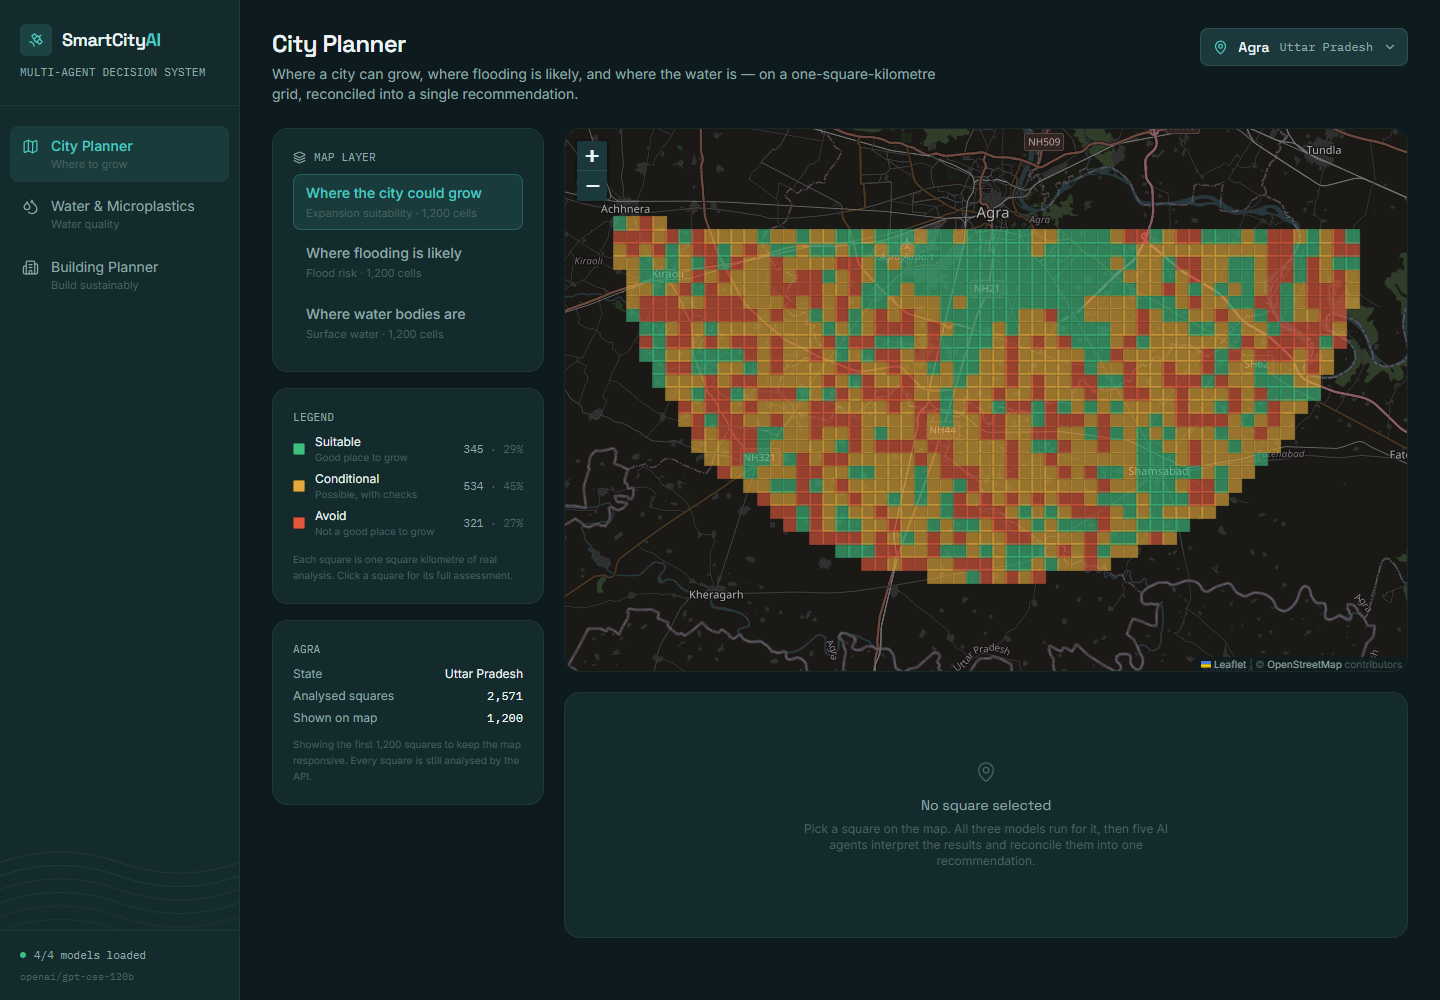
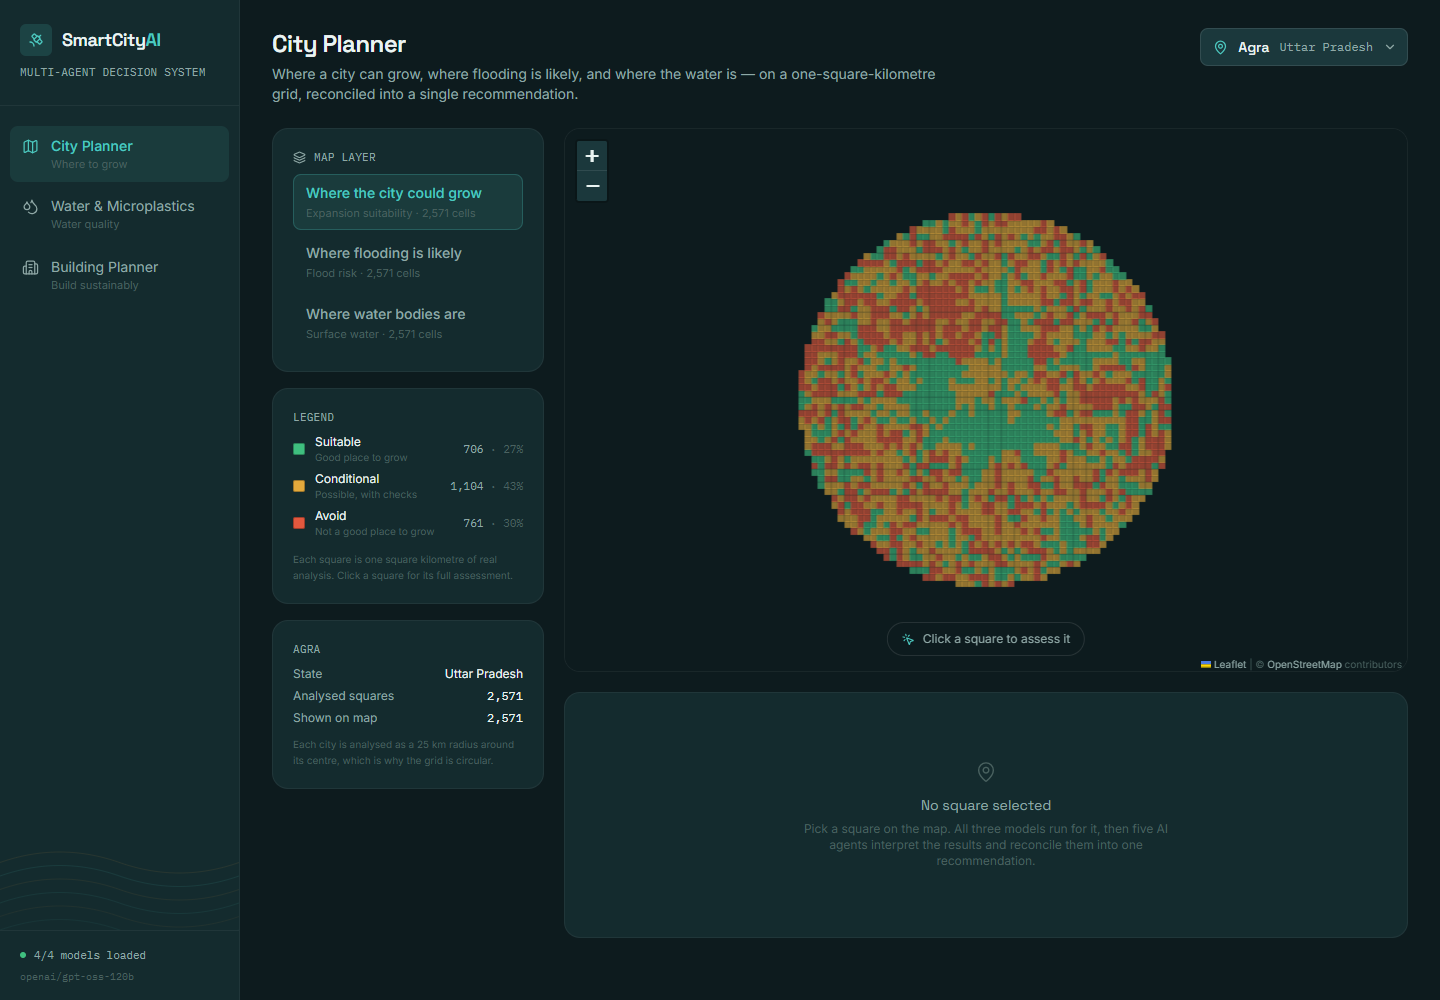
Draw the whole city grid instead of a truncated half
The map capped rendering at 1,200 cells per city. The grid file is ordered south
to north, so taking the first N rows cut the grid along a latitude line: what
rendered was the southern half of each city's analysis area, a half-disc sitting
below the city centre with a flat northern edge. Every one of the 45 cities was
affected, since all have more than 1,200 cells.

The circular outline itself is correct and comes from the project's own data:
each city is analysed as a 25 km radius disc around its centre, sampled on the
1 km grid, giving 2,089 to 2,956 cells per city. Only the truncation was wrong.

The cap is removed rather than made even-sampling, because at ~2,400 cells there
is no need for one: a full city now renders in under 7 seconds including the
three layer fetches, and a layer switch takes under 2.

Adds a browser check that the rendered cell count equals the city's analysed
total and that the disc is vertically symmetric, so a reintroduced cap fails
loudly instead of quietly hiding half a city. README screenshots refreshed, and
the grid's 25 km radius design is now documented.

diff --git a/frontend/src/pages/CityPlanner.jsx b/frontend/src/pages/CityPlanner.jsx
@@ -19,9 +19,12 @@ import CitySelector from '../components/city/CitySelector';
 import { getCities, getCityLayer, getMetrics, runCoordinator } from '../api/client';
 import { useAction, useAsync } from '../hooks/useAsync';
 
-// Cells rendered per city. The full grid is ~2,500 cells per city; capping keeps
-// the SVG layer responsive on a laptop while still covering the whole urban area.
-const CELL_LIMIT = 1200;
+// The whole city grid is rendered. An earlier version capped this at 1,200 cells,
+// which silently showed only PART OF EACH CITY: the source file is ordered
+// south to north, so taking the first N rows cut the grid along a latitude line
+// and left a half-disc sitting below the city centre. Every one of the 45 cities
+// was affected. A cap is only safe if it samples evenly, and at ~2,400 cells per
+// city (2,956 at most) there is no need for one.
 
 export default function CityPlanner() {
   const [city, setCity] = useState(null);
@@ -41,9 +44,9 @@ export default function CityPlanner() {
     useCallback(
       async (signal) => {
         const [urban, flood, water] = await Promise.all([
-          getCityLayer('urban', cityName, { limit: CELL_LIMIT, signal }),
-          getCityLayer('flood', cityName, { limit: CELL_LIMIT, signal }),
-          getCityLayer('water', cityName, { limit: CELL_LIMIT, signal }),
+          getCityLayer('urban', cityName, { signal }),
+          getCityLayer('flood', cityName, { signal }),
+          getCityLayer('water', cityName, { signal }),
         ]);
         return { urban, flood, water };
       },
@@ -142,12 +145,10 @@ export default function CityPlanner() {
                   </dd>
                 </div>
               </dl>
-              {city.grid_cells > CELL_LIMIT && (
-                <p className="text-[10px] text-mist-faint mt-2.5 leading-relaxed">
-                  Showing the first {CELL_LIMIT.toLocaleString()} squares to keep the map
-                  responsive. Every square is still analysed by the API.
-                </p>
-              )}
+              <p className="text-[10px] text-mist-faint mt-2.5 leading-relaxed">
+                Each city is analysed as a 25 km radius around its centre, which is why
+                the grid is circular.
+              </p>
             </Card>
           </aside>
 

diff --git a/README.md b/README.md
@@ -202,10 +202,10 @@ wall time against 14.18 s of summed agent work, across three threads.
 | **Sustainable Building Planner** | deterministic rules + NASA POWER | unit-tested arithmetic, cited guidelines |
 | **Agent layer** | LangGraph, 5 agents, Groq | 32 tests incl. concurrency and safety-guard proofs |
 | **FastAPI backend** | 33 endpoints | 66 API tests |
-| **React frontend** | 3 sections, interactive map | 65 unit tests + 23 browser checks |
+| **React frontend** | 3 sections, interactive map | 79 unit tests + 25 browser checks |
 
-**Tests: 207 backend + 65 frontend passing** offline, plus 8 live backend integration
-tests against real Groq and NASA POWER, and 23 browser checks driving the real UI.
+**Tests: 207 backend + 79 frontend passing** offline, plus 8 live backend integration
+tests against real Groq and NASA POWER, and 25 browser checks driving the real UI.
 Models 1 and 3 reproduce their training run's published holdout metrics to four decimal
 places — see [Verification](#verification).
 
@@ -434,7 +434,7 @@ pytest -v                               # verbose
 pytest tests/test_end_to_end.py         # just the full-workflow test
 pytest -k "coordinator or conflict"     # match by name
 
-# Frontend — 65 unit and component tests
+# Frontend — 79 unit and component tests
 cd frontend
 npm test
 npm run test:watch                      # re-run on change
@@ -602,6 +602,19 @@ Thresholds are documented in the model cards and exposed at
 
 ---
 
+### The analysis grid
+
+Each city is analysed as a **25 km radius disc around its centre**, sampled on a 1 km
+grid — which is why the map shows a circle rather than an administrative boundary.
+Cell counts range from 2,089 (Thiruvananthapuram) to 2,956 (Srinagar), 2,414 on
+average, for **108,642 cells** across 45 cities.
+
+The grid comes from `city_grid_1km_metadata.csv` in the project's own Earth Engine
+export (`SmartCityAI_city_boundaries`), and every model is indexed by its `grid_id`,
+so all three layers describe exactly the same squares.
+
+---
+
 ## Project structure
 
 ```
@@ -653,7 +666,7 @@ AI-Driven-Smart-City-Planning/
 │   │   ├── lib/domain.js            class -> colour/label/wording, one source of truth
 │   │   ├── components/              ui, map, cell, ai, technical, microplastic, layout
 │   │   └── pages/                   CityPlanner, WaterMicroplastics, BuildingPlanner
-│   ├── e2e/smoke.mjs                23 browser checks against a live backend
+│   ├── e2e/smoke.mjs                25 browser checks against a live backend
 │   └── package.json
 ├── models/                          trained artifacts (~6.5 GB, not committed)
 ├── docs/
@@ -825,8 +838,8 @@ from the real artifacts, and tests skip with a clear reason if an artifact is ab
 
 ```bash
 cd frontend
-npm test                 # 65 unit and component tests
-npm run test:e2e         # 23 browser checks against a live backend
+npm test                 # 79 unit and component tests
+npm run test:e2e         # 25 browser checks against a live backend
 ```
 
 | File | Tests | Covers |
@@ -836,6 +849,7 @@ npm run test:e2e         # 23 browser checks against a live backend
 | `src/components/ui/ui.test.jsx` | 11 | Error display, disclosures, missing-value handling |
 | `src/components/cell/CellSummary.test.jsx` | 13 | The honesty rules (see below) |
 | `src/components/ai/CoordinatorPanel.test.jsx` | 11 | Verdicts, trade-offs, LLM attribution |
+| `src/components/city/CitySelector.test.jsx` | 14 | Stacking above the map, height cap, filtering, a11y |
 
 The component tests assert the project's honesty rules directly: that a LOW flood
 result is shown as *absence of evidence, not safety*; that a GREEN suitability score
@@ -932,13 +946,15 @@ than returning a confident, meaningless answer.
 `npm run test:e2e` verified, in Chrome against the live backend:
 
 ```
-PASS  map renders real grid cells  — 1200 polygons
-PASS  coordinator verdict rendered  — Go ahead with conditions
+PASS  map renders real grid cells  — 2571 polygons
+PASS  whole city grid is drawn, not a truncated half  — 2571 drawn of 2571 analysed
+PASS  city menu renders above the map and fits on screen  — height 337px, fits=true
+PASS  coordinator verdict rendered  — Only with strong protection
 PASS  SHAP attribution panel opens
 PASS  per-city performance table renders
 PASS  microplastic screening matches HMPD label  — label=0 -> "No microplastic signature"
 PASS  recommendations rendered  — 7 recommendations
-23/23 checks passed · No application console errors.
+25/25 checks passed · No application console errors.
 ```
 
 ### Agent parallelism

diff --git a/frontend/README.md b/frontend/README.md
@@ -97,5 +97,9 @@ One layer renders at a time. Overlapping semi-transparent grids over the same ce
 would make every colour a blend of three, which no legend could explain. All three
 layers are fetched up front, so switching is instant.
 
-Cities are capped at 1,200 rendered cells to keep the SVG layer responsive on a
-laptop; the panel says so, and every cell remains analysable through the API.
+The whole city grid is rendered — around 2,400 cells, 2,956 at most. An earlier
+version capped this at 1,200, which silently showed only part of each city: the
+source file is ordered south to north, so truncating it cut the grid along a
+latitude line and left a half-disc below the city centre. A cap is only safe if it
+samples evenly, and at this size none is needed. The browser smoke test now asserts
+that the rendered cell count matches the city's analysed total.
